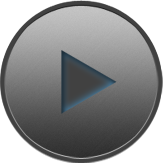
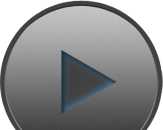
re-cut play button to allow seek btns better access, initial evt binding for seek

diff --git a/src/static/js/player/Player.js b/src/static/js/player/Player.js
@@ -9,7 +9,7 @@ define(
 ) {
   return Backbone.View.extend({
     initialize: function () {
-      _.bindAll(this, 'displayCurrentText', 'updateCurrentDuration', 'updateCurrentTimePoint', 'advanceSong');
+      _.bindAll(this, 'displayCurrentText', 'updateCurrentDuration', 'updateCurrentTimePoint', 'togglePlayQueueCurrent', 'playQueuePrevious', 'playQueueNext');
       Backbone.Events.on('playSong', this.playSong, this);
       Backbone.Events.on('addSong', this.addSong, this);
       this.browserSupportsAudio = window.Audio != undefined;
@@ -17,10 +17,15 @@ define(
         this.aud = new Audio();
         this.aud.addEventListener('durationchange', this.updateCurrentDuration);
         this.aud.addEventListener('timeupdate', this.updateCurrentTimePoint);
-        this.aud.addEventListener('ended', this.advanceSong);
+        this.aud.addEventListener('ended', this.playQueueNext);
       }
       this.queue = [];
       this.currIndx = 0;
+    },
+    events: {
+      'click .play-btn': 'togglePlayQueueCurrent',
+      'click .back-btn': 'playQueuePrevious',
+      'click .fwd-btn': 'playQueueNext'
     },
     insertQueue: function (songDesc) {
       this.queue.splice(this.currentIndex, 0, songDesc);
@@ -74,9 +79,22 @@ define(
       this.appendQueue(songDesc);
       console.log(this.queue);
     },
-    advanceSong: function () {
+    togglePlayQueueCurrent: function () {
+      if (this.aud.paused || this.aud.ended) {
+        this.aud.play();
+      } else {
+        this.aud.pause();
+      }
+    },
+    playQueueNext: function () {
       if (this.currIndx < this.queue.length - 1) {
         ++this.currIndx;
+        this.playCurrentInQueue();
+      }
+    },
+    playQueuePrevious: function () {
+      if (this.currIndx > 0) {
+        --this.currIndx;
         this.playCurrentInQueue();
       }
     }

diff --git a/src/static/css/style.css b/src/static/css/style.css
@@ -202,24 +202,25 @@ h6 {
   }
 }
 .player .btn {
+  cursor: pointer;
   position: absolute;
   background-repeat: no-repeat;
   background-position: center;
 }
 .player .play-btn {
   z-index: 6;
-  bottom: 23px;
-  left: 22px;
-  height: 82px;
+  bottom: 39px;
+  left: 21.5px;
+  height: 65px;
   width: 82px;
   background-image: url("../img/player-play-btn.png");
 }
 @media all and (-webkit-min-device-pixel-ratio: 1.5) {
   .player .play-btn {
     background-image: url("../img/player-play-btn@2x.png");
-    -webkit-background-size: 82px 82px;
-    -moz-background-size: 82px 82px;
-    background-size: 82px 82px;
+    -webkit-background-size: 82px 65px;
+    -moz-background-size: 82px 65px;
+    background-size: 82px 65px;
   }
 }
 .player .back-btn {
